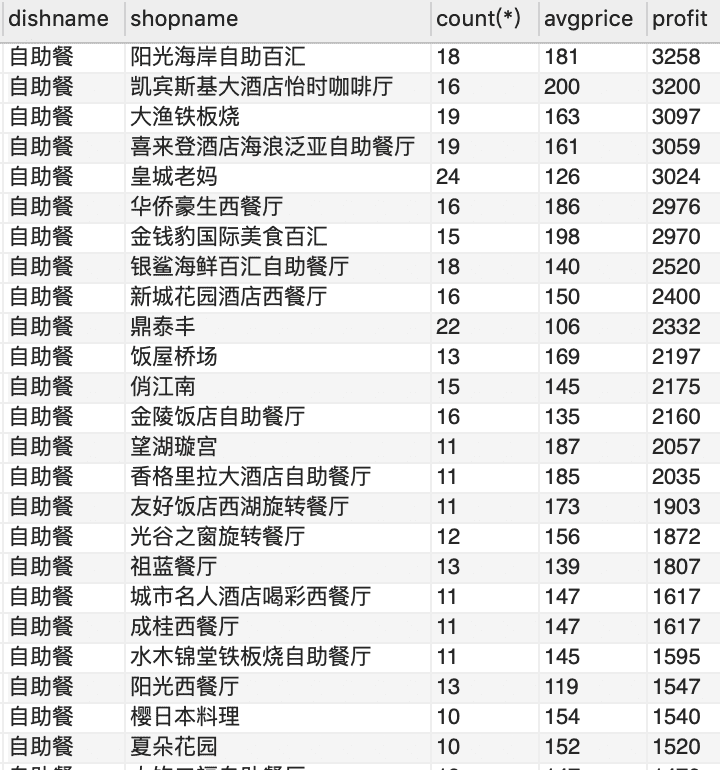
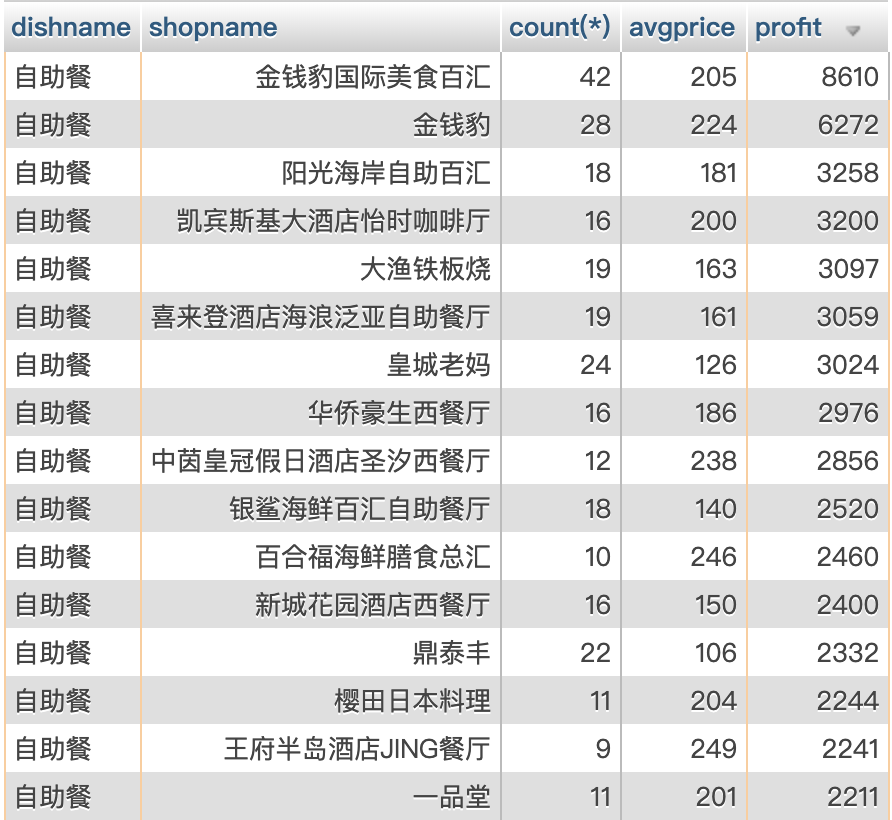
update

diff --git a/資料庫管理/作業/菜系分析.md b/資料庫管理/作業/菜系分析.md
@@ -236,11 +236,10 @@ group by author
 order by count(*) desc
 ```
 
-### 6. 在100-200價位有哪些成功的「自助餐」企業可以參考？
+### 6. 在102-260價位有哪些成功的「自助餐」企業可以參考？
 
-可以參考`陽光海岸自助百匯`和`皇城老媽`因為，兩者同屬於單價須在100-200內的自助餐品牌。其中
-- `陽光海岸自助百匯`是`平均單價*評論數量`最高的自助餐店
-- `皇城老媽`是數量最多的連鎖自助餐店
+可以參考`金钱豹国际美食百汇`這個單價在102-260內的自助餐品牌。
+- 因為`金钱豹国际美食百汇`是`平均單價*評論數量`且`連鎖數量最多`最高的自助餐店
 
 
 
@@ -256,7 +255,7 @@ where dish.dishid = shopdish.dishid
 AND shopdish.shopid = shop.shopid 
 AND shop.shopid = shopcomment.shopid 
 AND dish.dishname = '自助餐'
-AND shop.avgprice <=200 AND  shop.avgprice >=100
+AND shop.avgprice <=260 AND  shop.avgprice >=102
 group by shopname
 order by profit DESC
 ```
@@ -272,7 +271,7 @@ shop.dish
 where dish.dishid = shopdish.dishid 
 AND shopdish.shopid = shop.shopid 
 AND dish.dishname = '自助餐'
-AND shop.avgprice <=200 AND  shop.avgprice >=100
+AND shop.avgprice <=260 AND  shop.avgprice >=102
 group by shopname
 order by count(*) DESC
 ```
